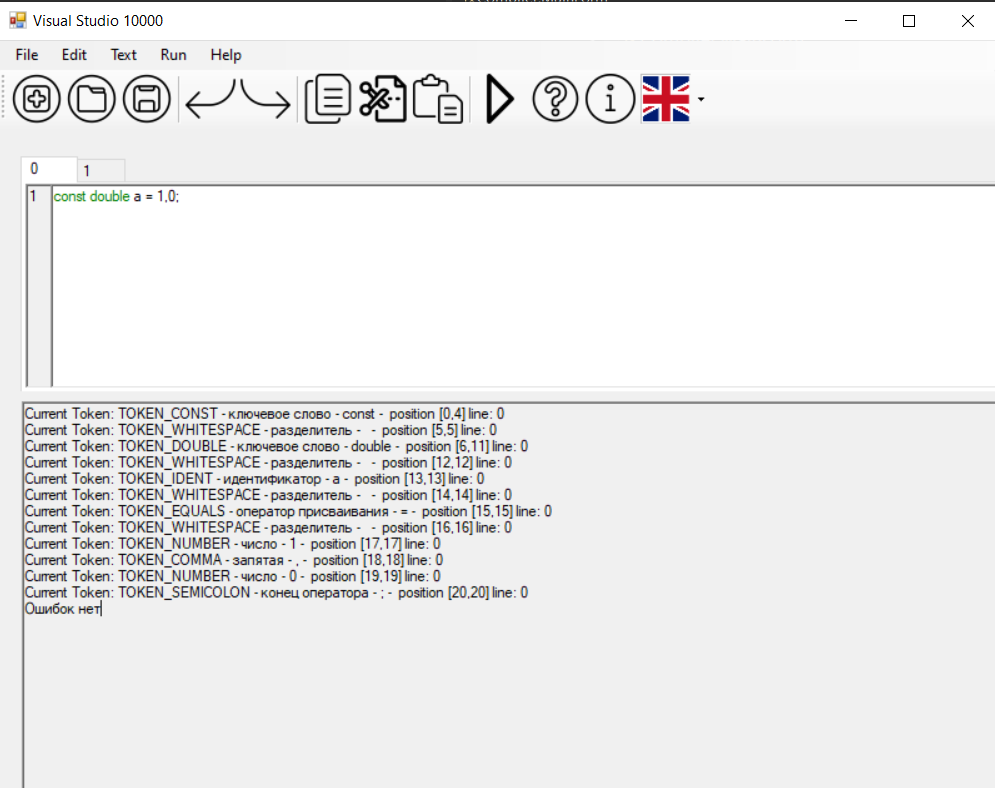
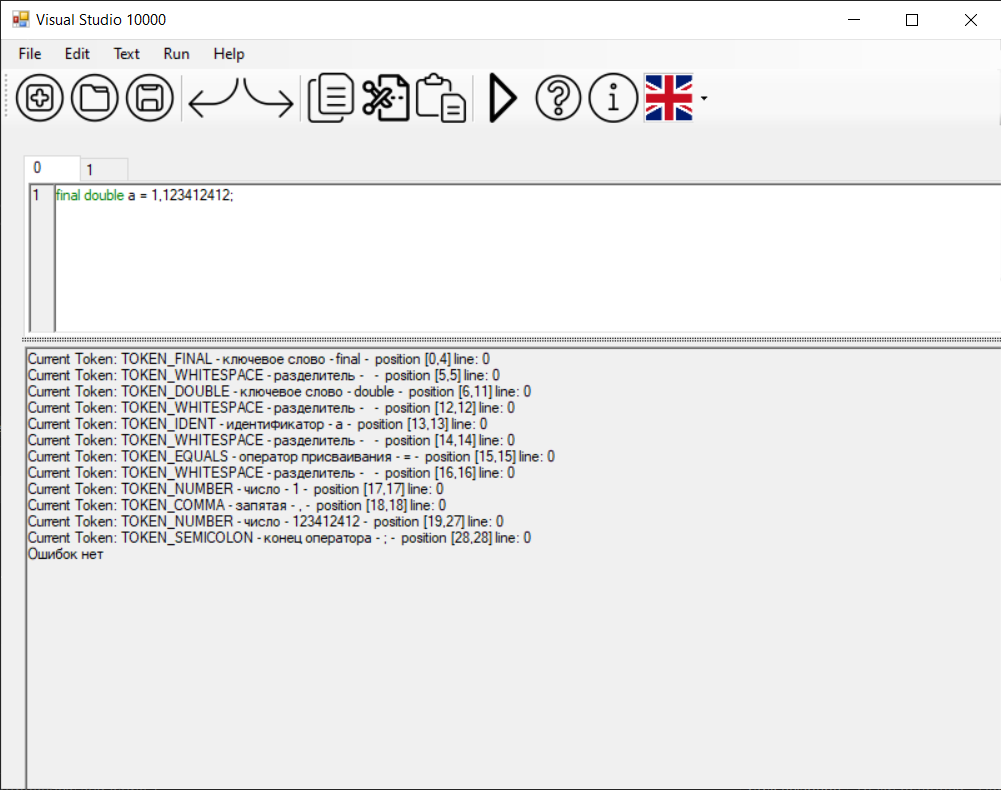
lab2

diff --git a/Lexer.cs b/Lexer.cs
@@ -11,7 +11,7 @@ namespace Compiler
 
             switch (strToLex)
             { 
-                case "const":return new Token("ключевое слово", TokenType.TOKEN_CONST);
+                case "final":return new Token("ключевое слово", TokenType.TOKEN_FINAL);
                 case "double": return new Token("ключевое слово", TokenType.TOKEN_DOUBLE);
                 case "=": return new Token("оператор присваивания", TokenType.TOKEN_EQUALS);
                 case ";": return new Token("конец оператора", TokenType.TOKEN_SEMICOLON);
@@ -19,6 +19,7 @@ namespace Compiler
                 case "}": return new Token("закрывающая фигурная скобка", TokenType.TOKEN_CLOSE_BRACE);
                 case ",": return new Token("запятая", TokenType.TOKEN_COMMA);
                 case " ": return new Token("разделитель", TokenType.TOKEN_WHITESPACE);
+                case "\n":return new Token("разделитель",TokenType.TOKEN_WHITESPACE);
                 default: break;
             }
             Regex ident = new Regex("[A-Za-z_]([A-Za-z_]|[0-9])*");
@@ -105,7 +106,7 @@ namespace Compiler
     enum TokenType
     {
         TOKEN_DOUBLE = 1,
-        TOKEN_CONST,
+        TOKEN_FINAL,
         TOKEN_IDENT,
         TOKEN_WHITESPACE,
         TOKEN_EQUALS,

diff --git a/MainForm.cs b/MainForm.cs
@@ -407,7 +407,7 @@ namespace Compiler
         }
         #endregion
 
-        string lexemes = @"\b(const|double|Real)";
+        string lexemes = @"\b(const|double|final)";
         public void textChanged(object sender, EventArgs e)
         {
             ImprovedRichTextBox localTempTextBox = (sender as ImprovedRichTextBox);

diff --git a/README.md b/README.md
@@ -22,8 +22,8 @@
 
 ## Примеры допустимых строк
 ```
-const double a = 1,01;
-const double b = 1;
+final double a = 1,01;
+final double b = 1;
 ```
 ## Диаграмма состояний сканера
 ![alt text](lexer_diagram.png)
